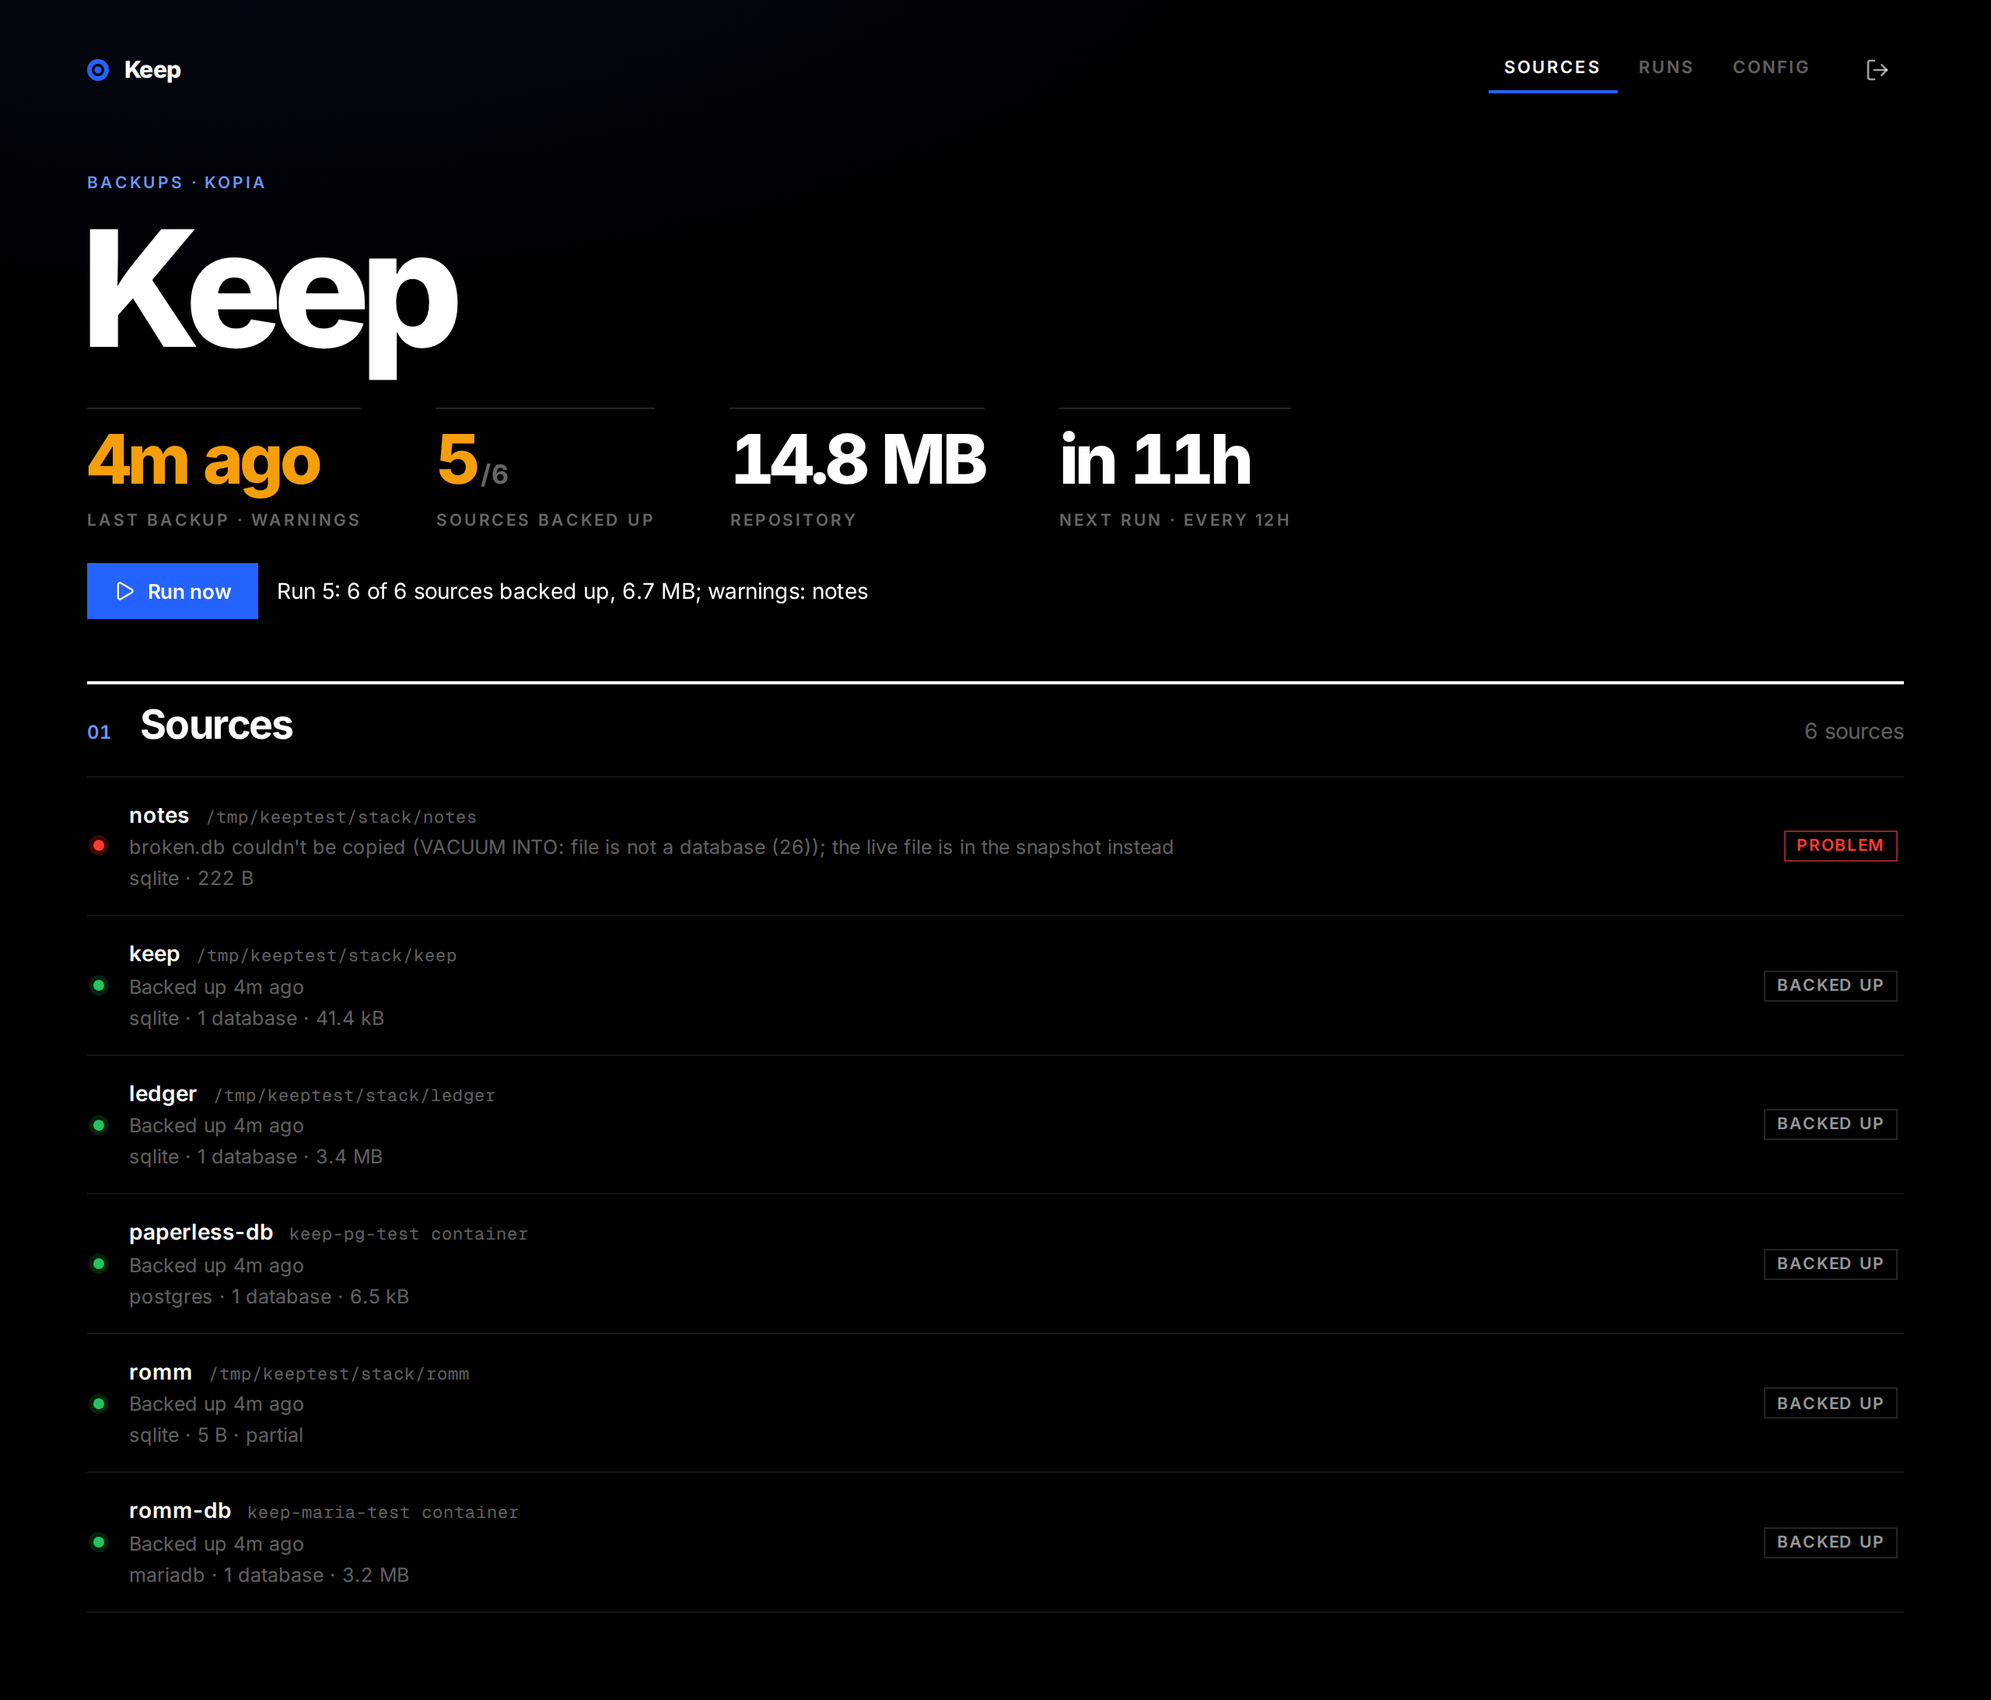
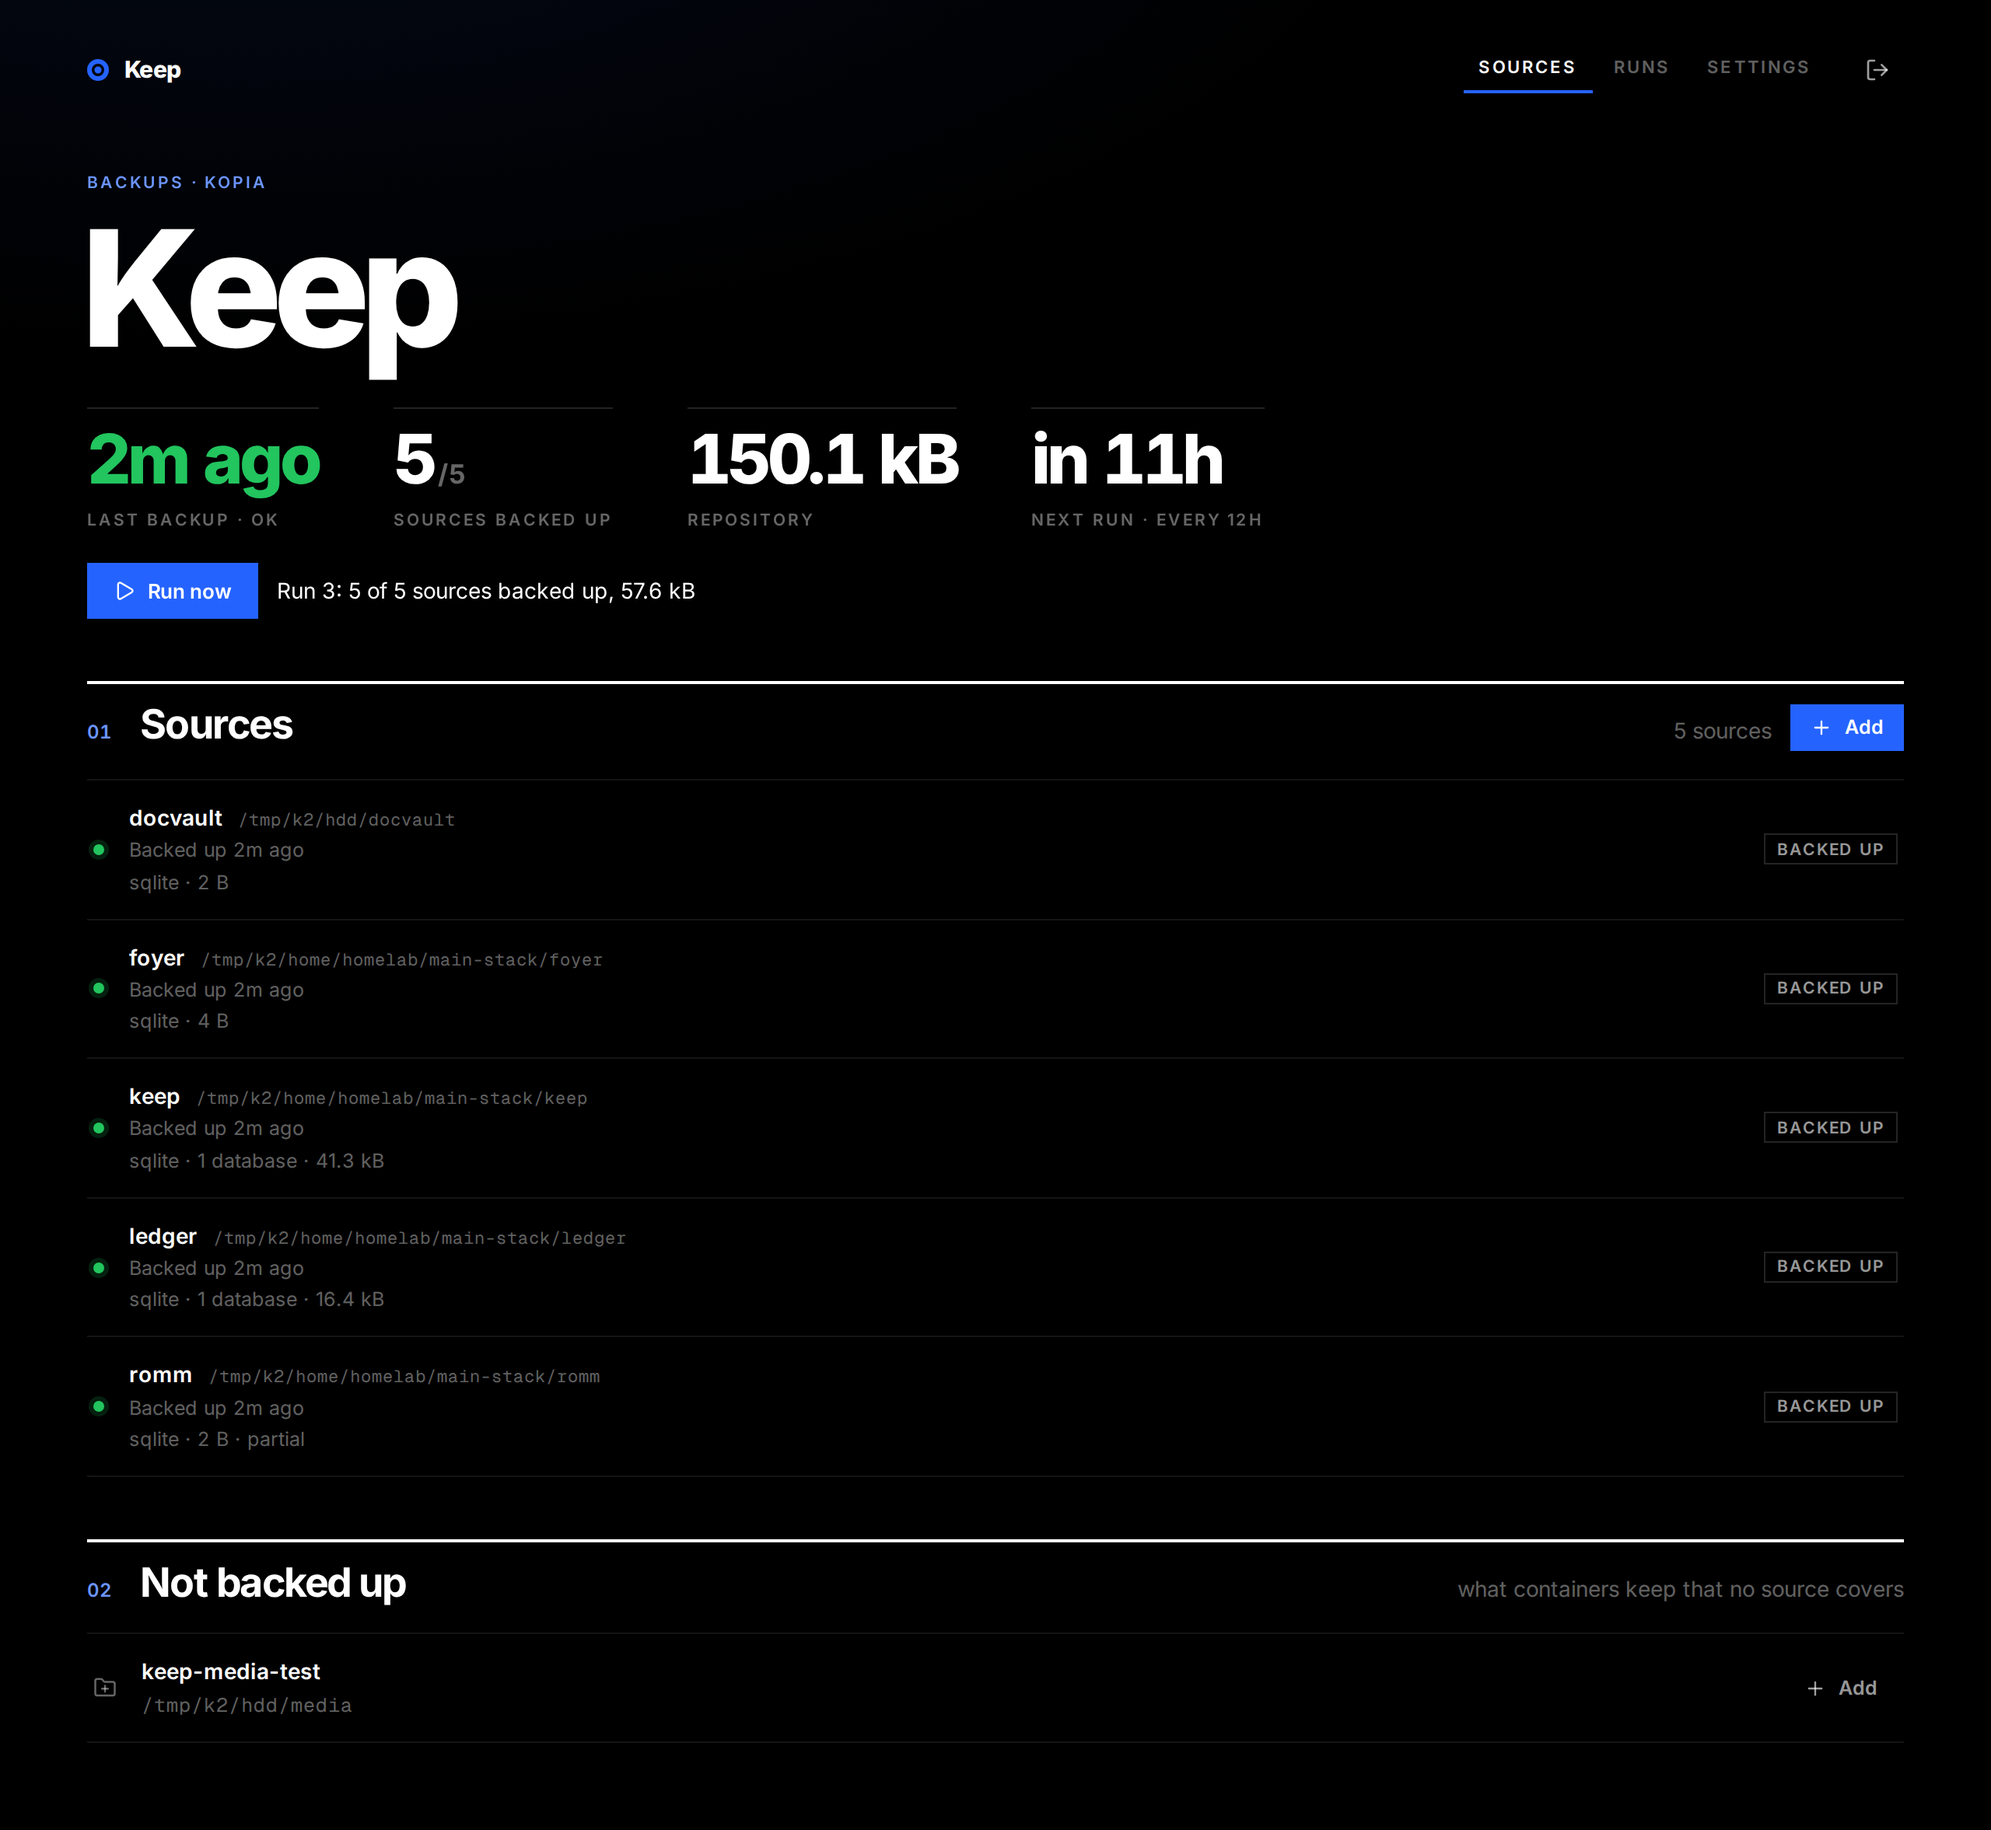
docs: choosing what to back up, host-path mounts, why runs batch

diff --git a/README.md b/README.md
@@ -54,25 +54,29 @@ services:
     group_add: ["988"] # the docker group's id: getent group docker
     environment:
       - KEEP_TOKEN=${KEEP_TOKEN} # openssl rand -hex 32
-      - KEEP_DATA_DIR=/data/keep # keep.db, keep.yml and staging
+      - KEEP_DATA_DIR=/home/me/stack/keep # keep.db and staging
       - KEEP_HEARTBEAT_URL=${KEEP_HEARTBEAT_URL}
     volumes:
-      - ./:/data # the stack folder, as Kopia sees it too
+      # The same host paths in Keep and the engine's container.
+      - /home/me:/home/me
+      - /mnt/hdd:/mnt/hdd
       - /var/run/docker.sock:/var/run/docker.sock
     ports:
       - "8091:8080"
     mem_limit: 64m
 ```
 
-The stack folder is mounted read-write because SQLite has to touch a WAL
-database's `-shm` file even to read it. Keep writes nothing else outside its
-own folder. See [docker-compose.example.yml](docker-compose.example.yml).
+Mounting your data folders at their real paths in both containers means
+the paths in Keep's UI are host paths, and adding a folder anywhere under
+them never needs a compose change. They're read-write for Keep because
+SQLite has to touch a WAL database's `-shm` file even to read it; Keep
+writes nothing outside its own folder. See [docker-compose.example.yml](docker-compose.example.yml).
 
 | Variable | Default | |
 |---|---|---|
 | `KEEP_TOKEN` | (required) | What you sign in with; also Foyer's widget key |
-| `KEEP_DATA_DIR` | `/data` | Where `keep.db` (and by default `keep.yml`) live |
-| `KEEP_CONFIG` | `$KEEP_DATA_DIR/keep.yml` | The config file |
+| `KEEP_DATA_DIR` | `/data` | Where `keep.db` and staging live |
+| `KEEP_CONFIG` | `$KEEP_DATA_DIR/keep.yml` | A version 1 config to import once |
 | `KEEP_HEARTBEAT_URL` | | A Lookout or healthchecks.io ping URL |
 | `KEEP_DOCKER_SOCKET` | `/var/run/docker.sock` | |
 | `KEEP_CONTAINER` | the hostname | Keep's own container, to find host paths |
@@ -80,30 +84,42 @@ own folder. See [docker-compose.example.yml](docker-compose.example.yml).
 | `HOMEPAGE_URL` | | Foyer's address, linked from the header |
 | `KEEP_DEBUG` | | Set to log debug messages |
 
-## keep.yml
+## Choosing what to back up
 
-Written with comments on first start, and read again for every run, so
-edits apply without a restart.
+Everything is set in the UI and kept in Keep's database:
 
-```yaml
-every: 12h
-engine: {type: kopia, container: kopia}
-staging: /data/keep/staging
-roots:            # every folder in a root is a source named after it
-  - path: /data
-    skip: [scripts]
-excludes: ["*.sync-conflict-*"]
-sources:          # extra sources, or changes to found folders (same name)
-  - {name: romm, excludes: [/library]}
-  - {name: docvault, path: /docvault}
-  - {name: paperless-db, strategy: postgres, container: paperless-db, volume: paperless_pgdata}
-```
+- **Add** on the Sources page opens a folder picker over the folders Keep
+  can see (its bind mounts). A folder becomes one source, or a **watched
+  folder**: every folder inside it is a source named after it, including
+  ones added later.
+- **Not backed up** lists what containers mount that no source covers,
+  read from the Docker socket, each with an Add button. Database containers
+  (Postgres, MariaDB) get a dump source; other Docker volumes are listed so
+  you know they aren't covered.
+- Each source's page has **Edit** (strategy, containers to stop, what to
+  leave out) and **Stop backing up**. For a folder in a watched folder that
+  means skipping it; the snapshots stay in the repository.
+- **Settings**: schedule, how many snapshots to keep (set on every path in
+  Kopia, so retention lives in Keep), patterns left out everywhere, the
+  engine's container and staging.
 
 Excludes use the part of gitignore syntax Kopia and restic read the same
 way: `/x` from the top of the source, `name` at any depth, `dir/` for
 folders only. `**` and `!` aren't supported. A source's excludes replace
 Kopia's own ignore rules for that path, including any inherited from a
 parent folder's policy.
+
+A `keep.yml` from version 1 is imported once on start and renamed to
+`keep.yml.imported`.
+
+## Speed
+
+Every Kopia command opens the repository, which takes 20–50 s over rclone
+to Google Drive. So a run prepares every source first, then takes all the
+snapshots with one `kopia snapshot create`, and sets a path's policy only
+when it changed (Keep remembers what it set, and checks again weekly). The
+repository size comes from `kopia content stats`, which reads the local
+index cache. A run is two Kopia commands plus the upload.
 
 ## Foyer
 

diff --git a/AGENTS.md b/AGENTS.md
@@ -11,13 +11,15 @@ has the backup engine (Kopia, via `docker exec`) snapshot it, records the
 run and pings a Lookout heartbeat. A Go server (`cmd/keep`, `internal/`)
 serves a JSON API and the Preact + TypeScript frontend (`frontend/`), built
 into `web/dist` and embedded in the binary. State lives in SQLite at
-`$KEEP_DATA_DIR/keep.db` (`internal/store`); what to back up is in
-`keep.yml`.
+`$KEEP_DATA_DIR/keep.db` (`internal/store`), including the settings (what
+to back up, edited in the UI; a v1 `keep.yml` is imported once).
 
-- `internal/config`: keep.yml, folder discovery in roots, exclude patterns.
-- `internal/runner`: the schedule, one run at a time, per-source
-  prepare → snapshot → record, the path check between Keep's and the
-  engine's mounts, the overview (source states).
+- `internal/config`: the settings (validation, keep.yml import), folder
+  discovery in roots, exclude patterns.
+- `internal/runner`: the schedule, one run at a time (`backup.go`: prepare
+  every source → set changed policies → one batched snapshot → record),
+  the path check between Keep's and the engine's mounts, the overview,
+  folder browsing and suggestions from container mounts (`discover.go`).
 - `internal/prepare`: SQLite discovery and copies, database dumps.
 - `internal/engine`: the `Engine` interface and Kopia. Nothing outside this
   package knows how Kopia is called (restic comes later).
@@ -45,6 +47,8 @@ into `web/dist` and embedded in the binary. State lives in SQLite at
   runner checks it. Kopia applies a parent folder's ignore rules to
   snapshots inside it unless the path has its own list, so `Configure`
   always sets one.
+- **Engine calls are slow** (each opens the repository: 20–50 s over
+  rclone). Batch them; never add a per-source engine call to a run.
 - Tests never touch a real repository: use the fake engine/docker in
   `runner_test.go`, or a throwaway `kopia/kopia` container with a
   filesystem repository.
